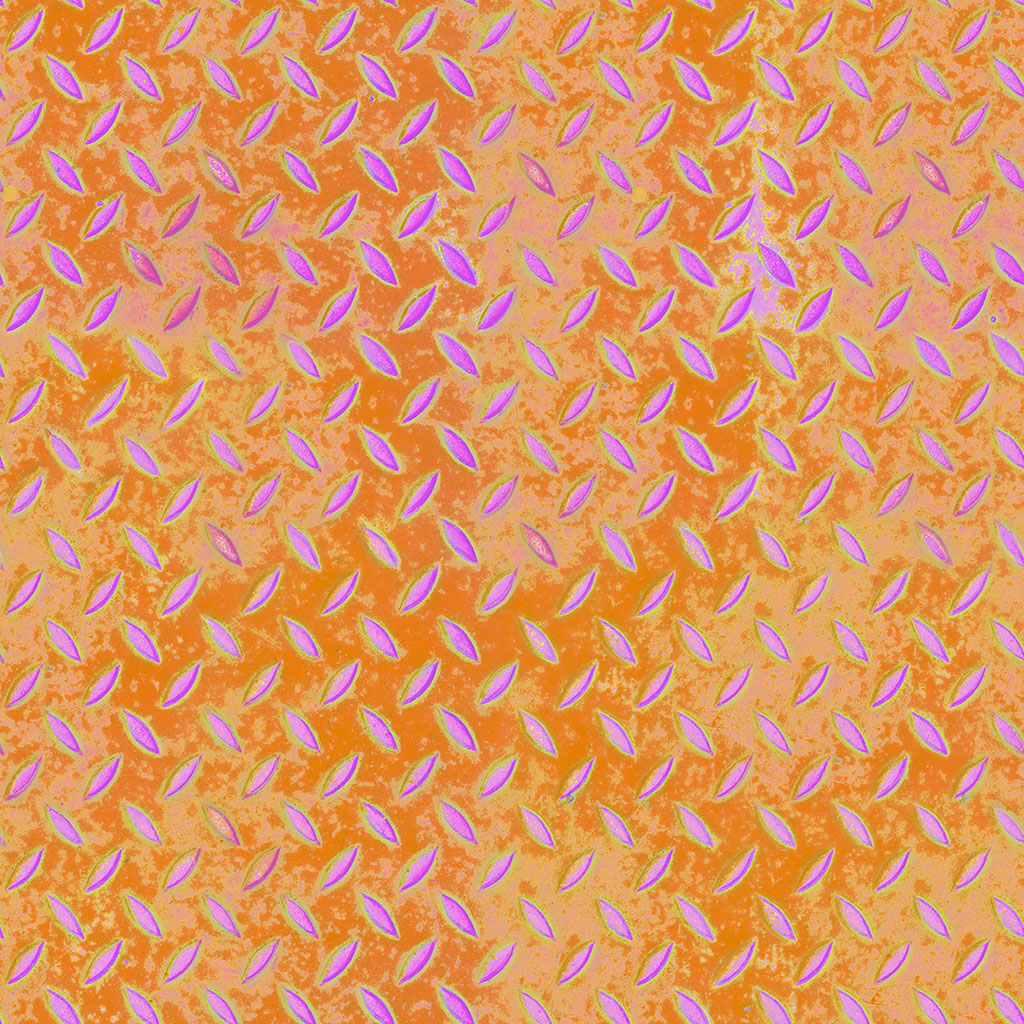
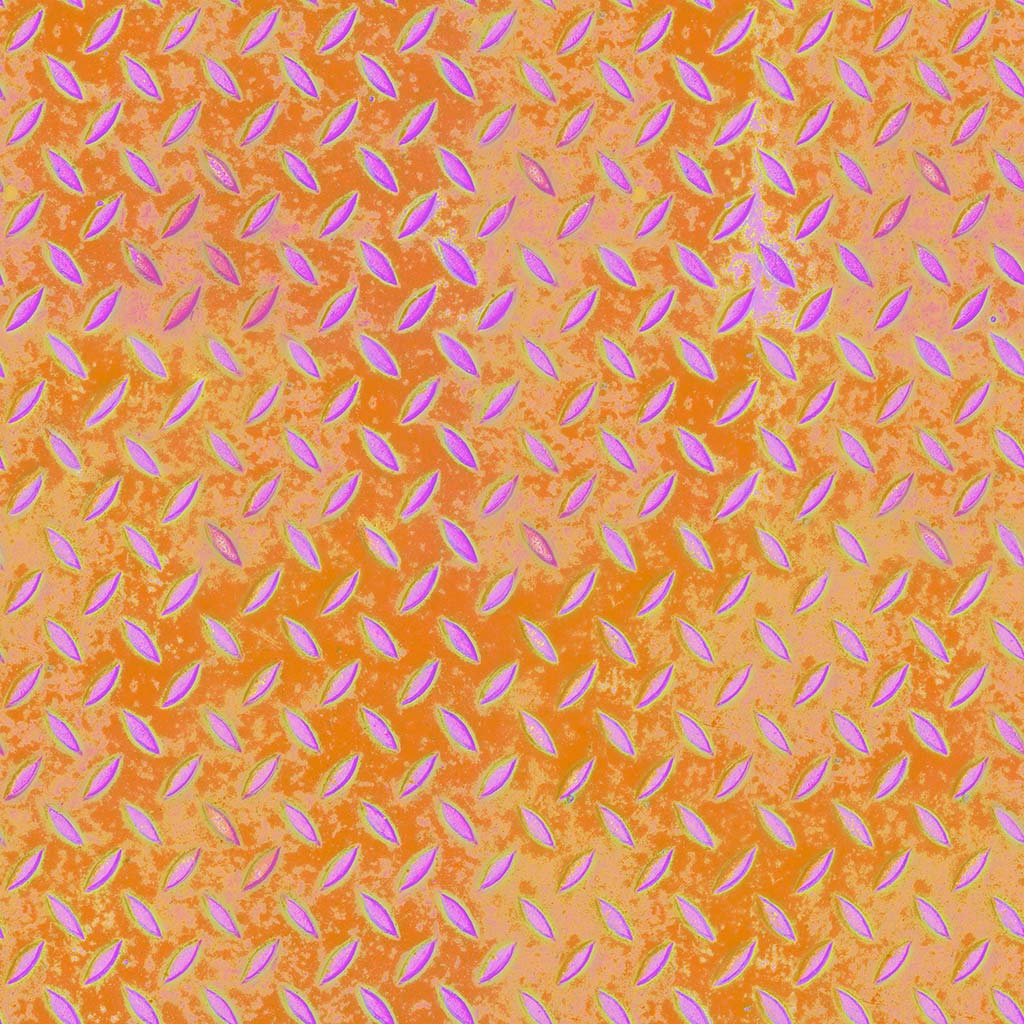
fix: improve material glossiness management.

diff --git a/src/pbr/DemoPBRTexViewer.ts b/src/pbr/DemoPBRTexViewer.ts
@@ -162,18 +162,23 @@ export class DemoPBRTexViewer implements IShaderLibListener {
         // let axis: Axis3DEntity = new Axis3DEntity();
         // axis.initialize(300.0);
         // this.m_rscene.addEntity(axis);
-        this.aoMapEnabled = true;
-        let ns: string = "lava_03";
-        let diffuseMap: TextureProxy = this.m_materialCtx.getTextureByUrl("static/assets/pbrtex/metal_plate_diff_1k.jpg");
-        let normalMap: TextureProxy = this.m_materialCtx.getTextureByUrl("static/assets/pbrtex/metal_plate_nor_1k.jpg");
-        let armMap: TextureProxy = this.m_materialCtx.getTextureByUrl("static/assets/pbrtex/metal_plate_arm_1k.jpg");
+        let diffuseMap: TextureProxy = null;
+        let normalMap: TextureProxy = null;
+        let armMap: TextureProxy = null;
         let aoMap: TextureProxy = null;
+        this.aoMapEnabled = true;
+        //let ns: string = "rust_coarse_01";
+        let ns: string = "metal_plate";
+        diffuseMap = this.m_materialCtx.getTextureByUrl("static/assets/pbrtex/"+ns+"_diff_1k.jpg");
+        normalMap = this.m_materialCtx.getTextureByUrl("static/assets/pbrtex/"+ns+"_nor_1k.jpg");
+        armMap = this.m_materialCtx.getTextureByUrl("static/assets/pbrtex/"+ns+"_arm_1k.jpg");
+
         if (this.aoMapEnabled) {
             //aoMap = this.m_materialCtx.getTextureByUrl("static/assets/disp/"+ns+"_OCC.png");
             //aoMap = this.m_materialCtx.getTextureByUrl("static/assets/circleWave_disp.png");
         }
         let displacementMap: TextureProxy = null;
-        //displacementMap = this.m_materialCtx.getTextureByUrl("static/assets/circleWave_disp.png");
+        //displacementMap = this.m_materialCtx.getTextureByUrl("static/assets/pbrtex/"+ns+"_disp_1k.jpg");
         let parallaxMap: TextureProxy = null;
         //parallaxMap = this.m_materialCtx.getTextureByUrl("static/assets/brick_bumpy01.jpg");
 
@@ -196,7 +201,7 @@ export class DemoPBRTexViewer implements IShaderLibListener {
         let sph: Sphere3DEntity;
         ///*
         let vertUniform: VertUniformComp;
-        material = this.createMaterial(1.0, 0.4, 1.0);
+        material = this.createMaterial(1.0, 1.0, 1.0);
         vertUniform = material.vertUniform as VertUniformComp;
 
         material.decorator.aoMapEnabled = this.aoMapEnabled;
@@ -208,12 +213,13 @@ export class DemoPBRTexViewer implements IShaderLibListener {
         material.decorator.diffuseMap = diffuseMap;
         material.decorator.normalMap = normalMap;
         material.decorator.aoMap = aoMap;
+
         vertUniform.displacementMap = displacementMap;
 
         material.decorator.parallaxMap = parallaxMap;
 
         material.initializeByCodeBuf(true);
-        vertUniform.setDisplacementParams(50.0, 0.0);
+        vertUniform.setDisplacementParams(10.0, -5.0);
         material.setAlbedoColor(1.0, 1.0, 1.0);
         material.setScatterIntensity(64.0);
         material.setParallaxParams(1, 10, 5.0, 0.02);
@@ -221,6 +227,7 @@ export class DemoPBRTexViewer implements IShaderLibListener {
 
         //material.setTextureList(texList);
         let srcSph = new Sphere3DEntity();
+        srcSph.uvScale = 0.7;
         srcSph.setMaterial(material);
         srcSph.initialize(100.0, 150, 150);
         srcSph.setRotation3(this.m_rotV);

diff --git a/src/vox/material/ShaderCodeBuffer.ts b/src/vox/material/ShaderCodeBuffer.ts
@@ -36,6 +36,7 @@ class ShaderCodeBuffer {
     fogEnabled: boolean = false;
     envAmbientLightEnabled: boolean = false;
     brightnessOverlayEnabeld: boolean = false;
+    glossinessEnabeld: boolean = true;
 
     pipeTypes: MaterialPipeType[] = null;
     keysString: string = "";
@@ -69,6 +70,8 @@ class ShaderCodeBuffer {
         this.fogEnabled = false;
         this.envAmbientLightEnabled = false;
         this.brightnessOverlayEnabeld = false;
+        this.glossinessEnabeld = true;
+
         this.keysString = "";
     }
     clear(): void {
@@ -101,9 +104,22 @@ class ShaderCodeBuffer {
         this.bufInitWithPipeline();
     }
     buildDefine(): void {
-        if (this.premultiplyAlpha) this.m_coder.addDefine("VOX_PREMULTIPLY_ALPHA");
-        if (this.vertColorEnabled) this.m_coder.addDefine("VOX_USE_VTX_COLOR");
-        if (this.brightnessOverlayEnabeld) this.m_coder.addDefine("VOX_USE_BRIGHTNESS_OVERLAY_COLOR");
+        if (this.premultiplyAlpha) {
+            this.m_coder.addDefine("VOX_PREMULTIPLY_ALPHA");
+            this.keysString += "A";
+        }
+        if (this.vertColorEnabled) {
+            this.m_coder.addDefine("VOX_USE_VTX_COLOR");
+            this.keysString += "UVC";
+        }
+        if (this.brightnessOverlayEnabeld) {
+            this.m_coder.addDefine("VOX_USE_BRIGHTNESS_OVERLAY_COLOR");
+            this.keysString += "UBOC";
+        }
+        if (this.glossinessEnabeld) {
+            this.m_coder.addDefine("VOX_USE_GLOSSINESS");
+            this.keysString += "UG";
+        }
     }
     buildPipelineParams(): void {
         if (this.pipeline != null) {
@@ -128,7 +144,7 @@ class ShaderCodeBuffer {
             this.buildPipelineParams();
             this.pipeline.buildSharedUniforms(this.pipeTypes);
             this.pipeline.createKeys(this.pipeTypes);
-            this.keysString = this.pipeline.getKeysString();
+            this.keysString += this.pipeline.getKeysString();
         }
     }
     

diff --git a/src/vox/entity/Sphere3DEntity.ts b/src/vox/entity/Sphere3DEntity.ts
@@ -20,6 +20,7 @@ export default class Sphere3DEntity extends DisplayEntity {
     doubleTriFaceEnabled: boolean = false;
     wireframe: boolean = false;
     inverseUV: boolean = false;
+    uvScale: number = 1.0;
     private m_radius: number = 50.0;
     private m_longitudeNumSegments: number = 10;
     private m_latitudeNumSegments: number = 10;
@@ -92,6 +93,7 @@ export default class Sphere3DEntity extends DisplayEntity {
             let mesh = new Sphere3DMesh();
             mesh.wireframe = this.wireframe;
             mesh.inverseUV = this.inverseUV;
+            mesh.uvScale = this.uvScale;
             mesh.vbWholeDataEnabled = this.vbWholeDataEnabled;
             mesh.setBufSortFormat(material.getBufSortFormat());
             mesh.initialize(this.m_radius, this.m_longitudeNumSegments, this.m_latitudeNumSegments, this.doubleTriFaceEnabled);

diff --git a/src/pbr/material/PBRMaterial.ts b/src/pbr/material/PBRMaterial.ts
@@ -105,6 +105,7 @@ export default class PBRMaterial extends MaterialBase implements IPBRMaterial {
         buf.lightEnabled = decorator.lightEnabled;
         buf.shadowReceiveEnabled = decorator.shadowReceiveEnabled;
         buf.fogEnabled = decorator.fogEnabled;
+        buf.glossinessEnabeld = decorator.glossinessEnabeld;
         buf.buildPipelineParams();
 
         buf.decorator = decorator;

diff --git a/src/pbr/material/PBRShaderDecorator.ts b/src/pbr/material/PBRShaderDecorator.ts
@@ -30,7 +30,8 @@ export default class PBRShaderDecorator {
      * add ao, roughness, metalness map uniform code
      */
     armMap: TextureProxy = null;
-
+    
+    glossinessEnabeld: boolean = true;
     woolEnabled: boolean = true;
     toneMappingEnabled: boolean = true;
     specularEnvMapEnabled: boolean = true;
